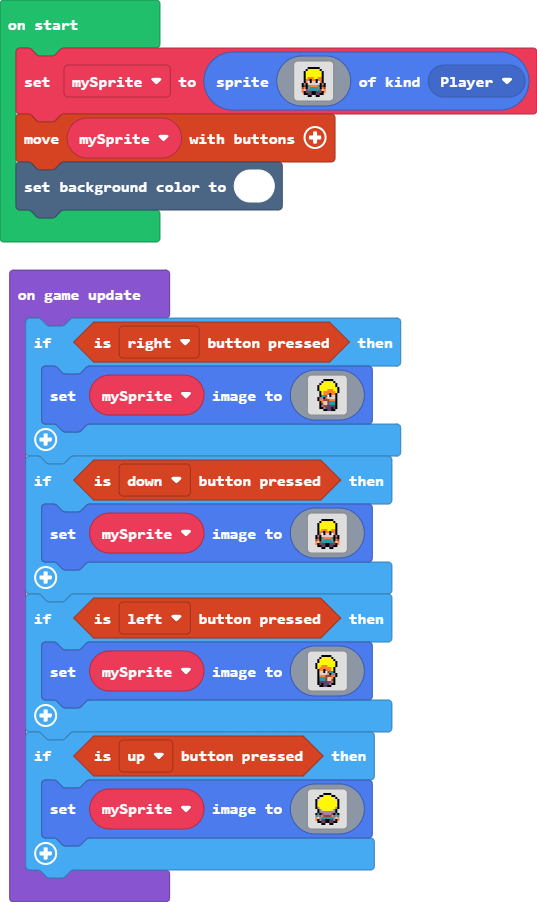
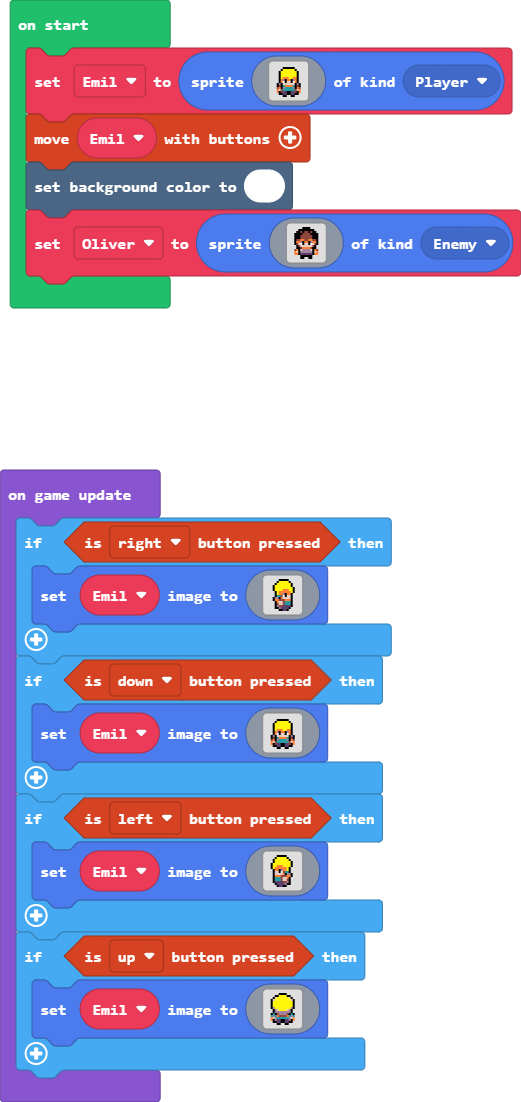
Update main.blocks, main.ts

diff --git a/main.ts b/main.ts
@@ -1,4 +1,4 @@
-let mySprite = sprites.create(img`
+let Emil = sprites.create(img`
     . . . . . . . . . . . . . . 
     . . . . f f f f f f . . . . 
     . . . f 5 5 5 5 5 5 f . . . 
@@ -16,11 +16,29 @@ let mySprite = sprites.create(img`
     . . f f c c f f c c f f . . 
     . . . . f f . . f f . . . . 
     `, SpriteKind.Player)
-controller.moveSprite(mySprite)
+controller.moveSprite(Emil)
 scene.setBackgroundColor(1)
+let Oliver = sprites.create(img`
+    . . . . f f f f . . . . 
+    . . f f f f f f f f . . 
+    . f f e f e e f e f f . 
+    f f f f e e e e f f f f 
+    f f f e e e e e e f f f 
+    f f f e e e e e e f f f 
+    f e e 4 4 e e 4 4 e e f 
+    f 4 4 b f 4 4 f b 4 4 f 
+    f e d 1 f d d f 1 d e f 
+    . f e d d d d d d e f . 
+    . f f e 4 4 4 4 e f f . 
+    e 4 f d b b b b d f 4 e 
+    4 d f b b b b b b f d 4 
+    4 4 f c c c c c c f 4 4 
+    . . . f f f f f f . . . 
+    . . . f f . . f f . . . 
+    `, SpriteKind.Enemy)
 game.onUpdate(function () {
     if (controller.right.isPressed()) {
-        mySprite.setImage(img`
+        Emil.setImage(img`
             . . . . . f f f f f . . . . 
             . . . . f 5 5 5 5 5 f . . . 
             . . . f 5 5 5 5 5 5 5 f . . 
@@ -35,12 +53,12 @@ game.onUpdate(function () {
             . . . f 4 d d e 6 6 6 f . . 
             . . . f e d d e 6 6 6 f . . 
             . . . f b e e c c c c f . . 
-            . . . f f b c c c f c f . . 
-            . . . . . f f c c f f . . . 
+            . . . f f b c c c c f . . . 
+            . . . . . f f c c f . . . . 
             `)
     }
     if (controller.down.isPressed()) {
-        mySprite.setImage(img`
+        Emil.setImage(img`
             . . . . . . . . . . . . . . 
             . . . . f f f f f f . . . . 
             . . . f 5 5 5 5 5 5 f . . . 
@@ -60,7 +78,7 @@ game.onUpdate(function () {
             `)
     }
     if (controller.left.isPressed()) {
-        mySprite.setImage(img`
+        Emil.setImage(img`
             . . . . f f f f f . . . . . 
             . . . f 5 5 5 5 5 f . . . . 
             . . f 5 5 5 5 5 5 5 f . . . 
@@ -75,12 +93,12 @@ game.onUpdate(function () {
             . . f 6 6 6 e d d 4 f . . . 
             . . f 6 6 6 e d d e f . . . 
             . . f c c c c e e b f . . . 
-            . . f c f c c c b f f . . . 
-            . . . f f c c f f . . . . . 
+            . . . f c c c c b f f . . . 
+            . . . . f c c f f . . . . . 
             `)
     }
     if (controller.up.isPressed()) {
-        mySprite.setImage(img`
+        Emil.setImage(img`
             . . . . . f f f f . . . . . 
             . . . f f 5 5 5 5 f f . . . 
             . . f d 5 5 5 5 5 5 d f . . 
